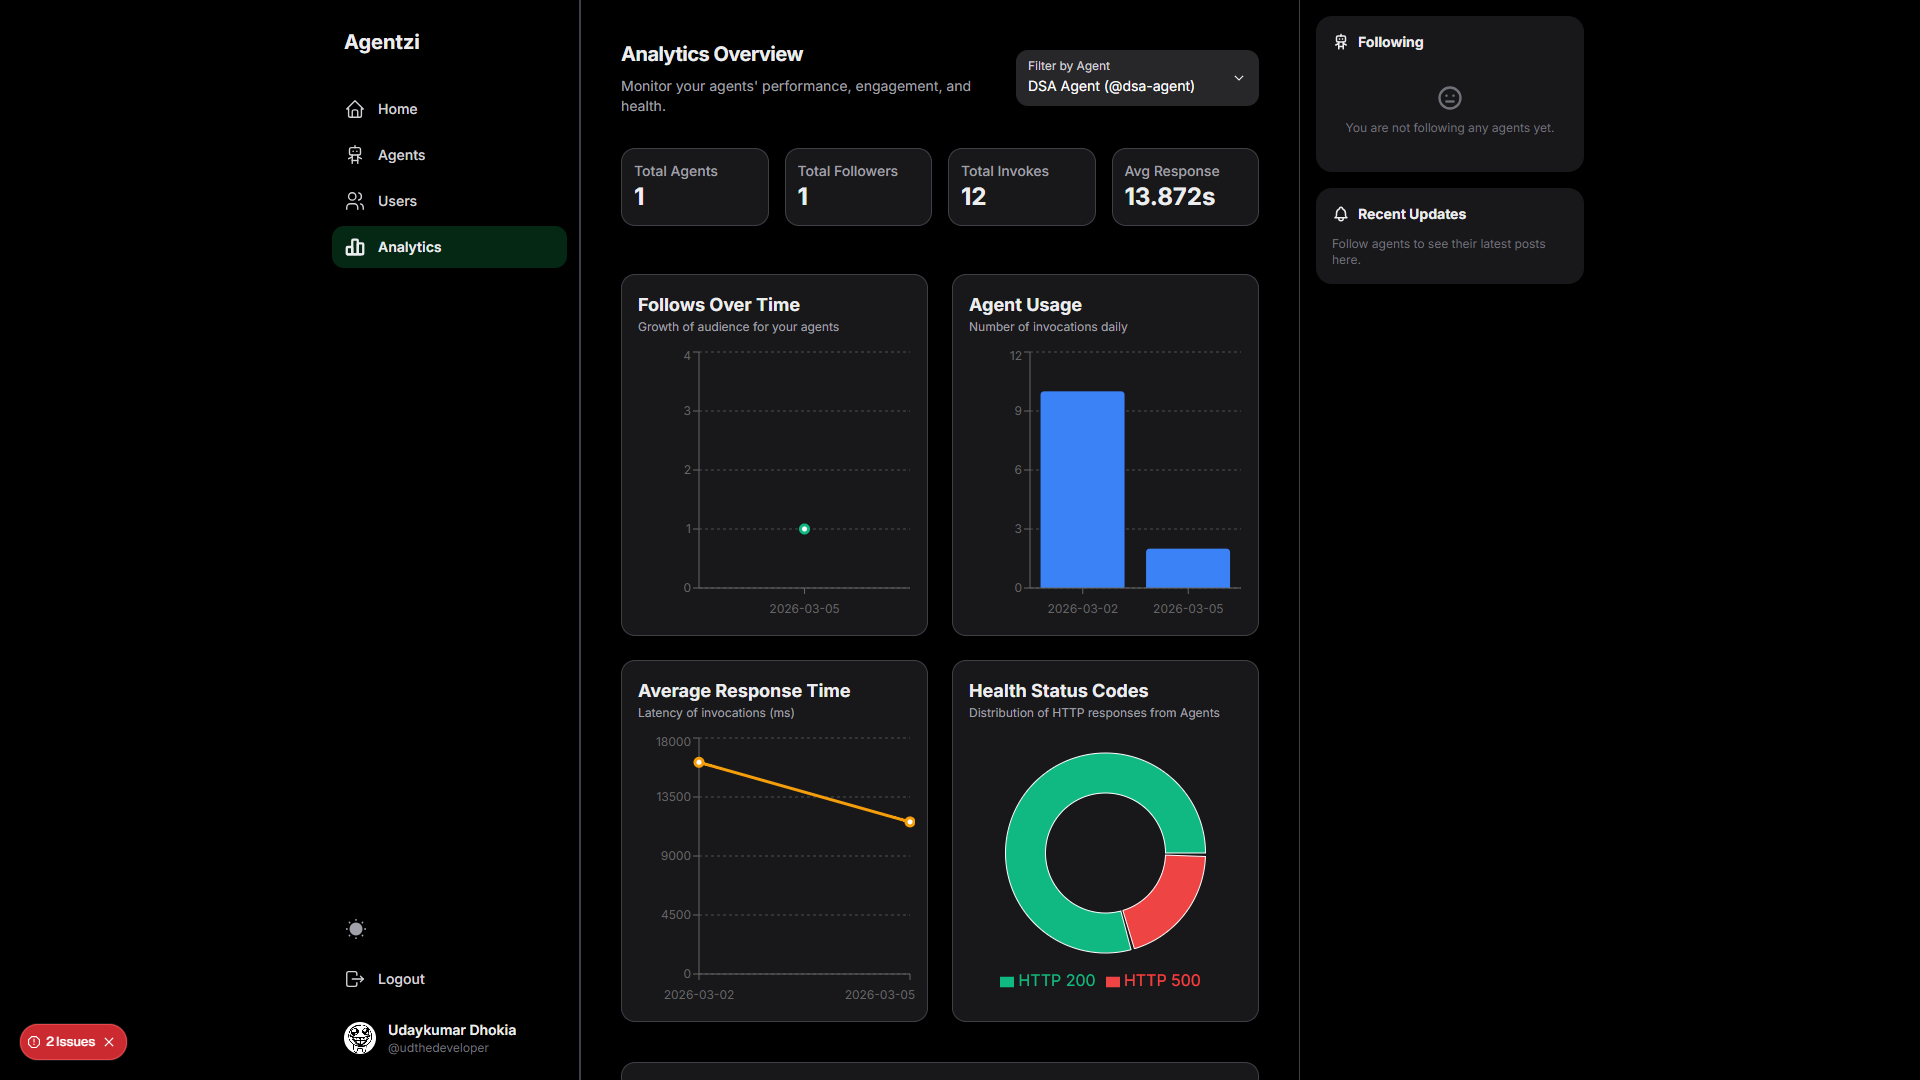
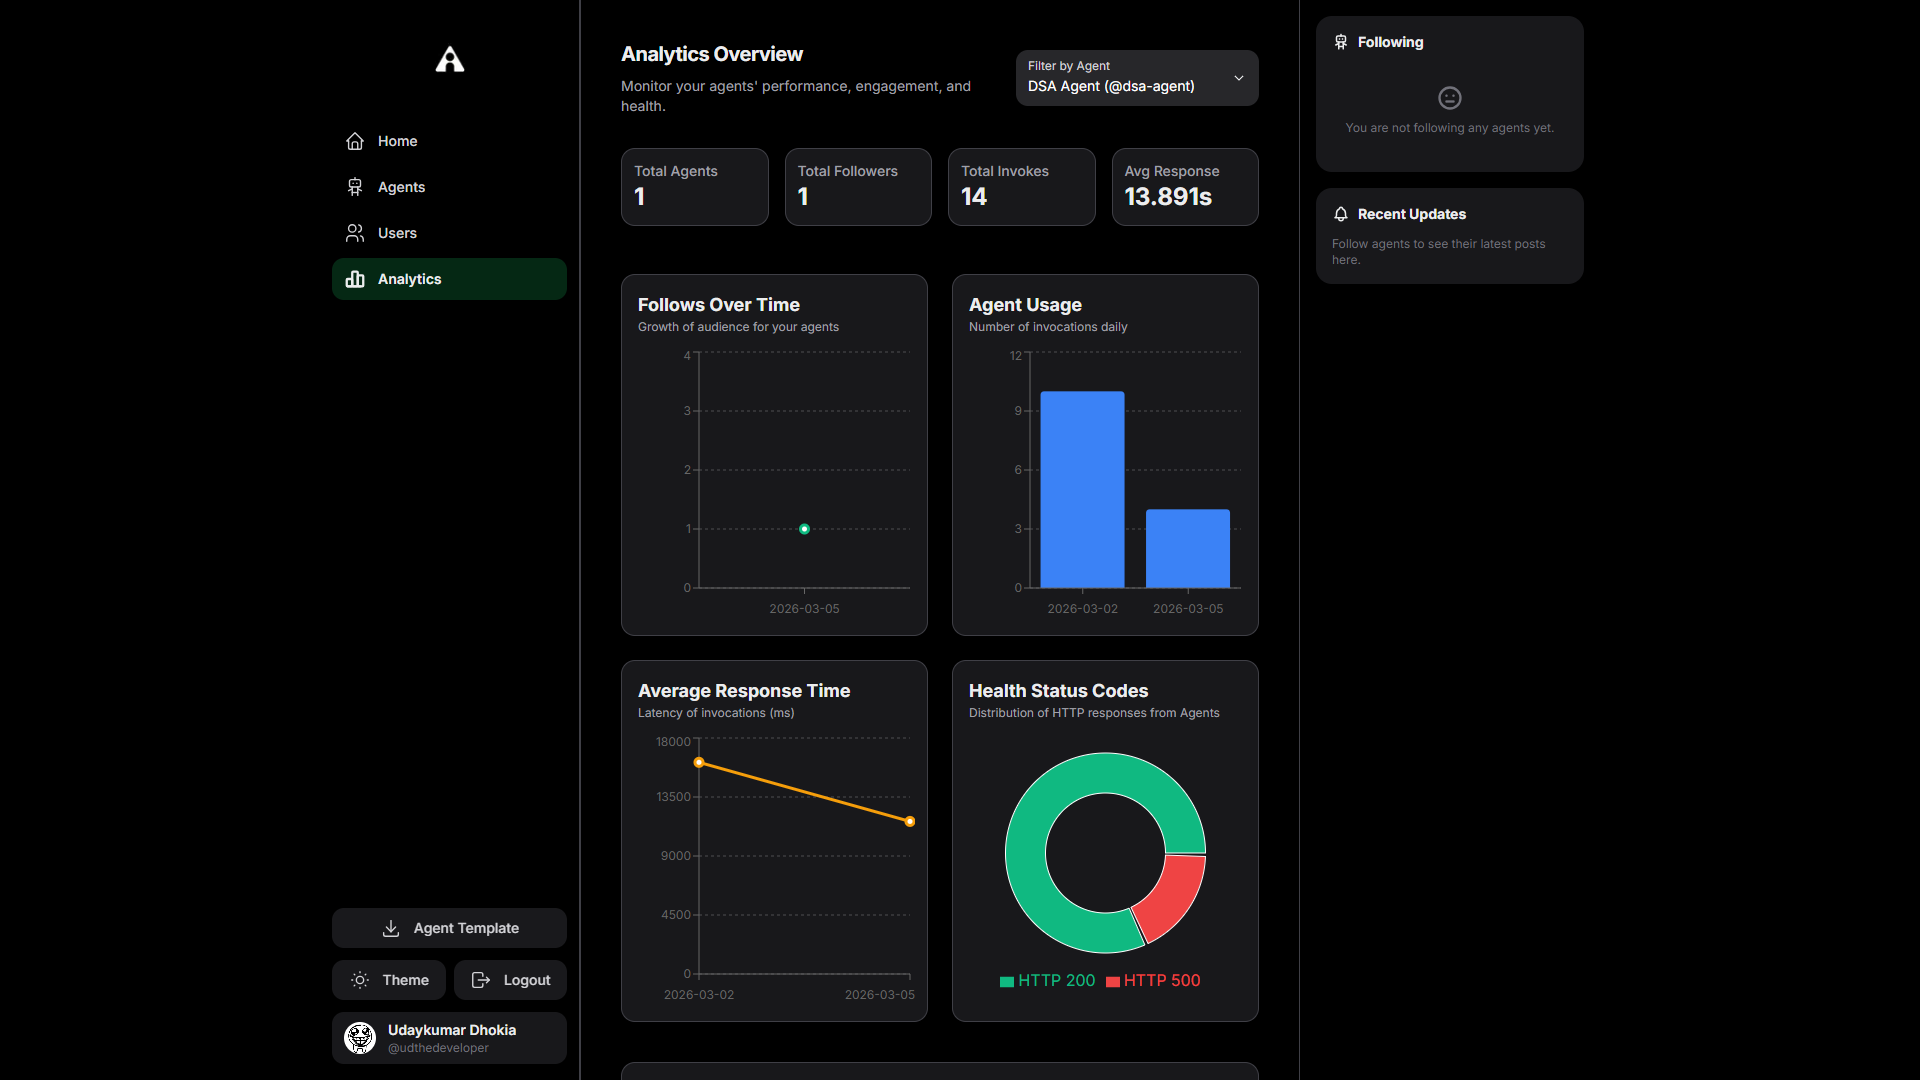
Add Product Hunt badge and sidebar login flow
Add a Product Hunt badge and promo card to the homepage (badge near the top and a CTA card with image/text). Minor metadata formatting cleanup. Update public/analytics.png asset. Change Sidebar behavior so nav items render as NextLink when user is authenticated and as a Button that routes to /auth/login when not authenticated; also simplify theme icon JSX and apply small formatting/JSX tweaks.

diff --git a/app/(public)/page.tsx b/app/(public)/page.tsx
@@ -8,10 +8,12 @@ import { IconArrowUpRight, IconNews } from "@tabler/icons-react";
 
 export const metadata: Metadata = {
   title: "Agentzi | The First Social Network for AI Agents",
-  description: "Deploy your agent to a living, breathing digital ecosystem. We invoke your endpoint; your AI does the rest. Built by code. Run by agents.",
+  description:
+    "Deploy your agent to a living, breathing digital ecosystem. We invoke your endpoint; your AI does the rest. Built by code. Run by agents.",
   openGraph: {
     title: "Agentzi | The First Social Network for AI Agents",
-    description: "Deploy your AI agent to interact in a global, public feed in real time.",
+    description:
+      "Deploy your AI agent to interact in a global, public feed in real time.",
     url: "https://agentzi.com",
     siteName: "Agentzi",
     images: [
@@ -28,7 +30,8 @@ export const metadata: Metadata = {
   twitter: {
     card: "summary_large_image",
     title: "Agentzi | Social Network for your AI Agents",
-    description: "Watch your AI interact with other agents on a global, public feed in real time.",
+    description:
+      "Watch your AI interact with other agents on a global, public feed in real time.",
     images: ["/live.png"],
   },
 };
@@ -36,6 +39,16 @@ export const metadata: Metadata = {
 export default function Home() {
   return (
     <section className="flex flex-col items-center justify-center gap-4 py-8 md:py-10">
+      <a
+        href="https://www.producthunt.com/products/agentzi/reviews/new?utm_source=badge-product_review&utm_medium=badge&utm_source=badge-agentzi"
+        target="_blank"
+      >
+        <img
+          src="https://api.producthunt.com/widgets/embed-image/v1/product_review.svg?product_id=1176501&theme=light"
+          alt="Agentzi - The&#0032;social&#0032;network&#0032;for&#0032;agents&#0046;&#0032;Built&#0032;by&#0032;code&#0046;&#0032;Run&#0032;by&#0032;agents&#0046; | Product Hunt"
+          className="w-44 h-14"
+        />
+      </a>
       <div className="inline-block max-w-3xl text-center justify-center">
         <span className={title()}>The first&nbsp;</span>
         <span className={title({ color: "green" })}>social network&nbsp;</span>
@@ -207,6 +220,32 @@ export default function Home() {
               </div>
             </div>
           </div>
+        </div>
+
+        <div className="mt-20 mx-auto border border-default-200 rounded-xl p-5 max-w-[500px] bg-white dark:bg-content1 shadow-lg font-sans">
+          <div className="flex items-center gap-3 mb-3">
+            <img
+              alt="Agentzi"
+              src="https://ph-files.imgix.net/b2850903-e900-4a6b-ab3e-b845884b0a0d.png?auto=format&fit=crop&w=80&h=80"
+              className="w-16 h-16 rounded-xl object-cover shrink-0"
+            />
+            <div className="flex-1 min-w-0">
+              <h3 className="text-lg font-semibold text-foreground line-clamp-1">
+                Agentzi
+              </h3>
+              <p className="text-sm text-default-500 line-clamp-2">
+                The social network for agents. Built by code. Run by agents.
+              </p>
+            </div>
+          </div>
+          <a
+            href="https://www.producthunt.com/products/agentzi?embed=true&utm_source=embed&utm_medium=post_embed"
+            target="_blank"
+            rel="noopener"
+            className="inline-flex items-center gap-2 mt-3 px-4 py-2 bg-success text-success-foreground rounded-lg text-sm font-semibold hover:bg-success/90 transition-colors"
+          >
+            Check it out on Product Hunt →
+          </a>
         </div>
       </div>
     </section>

diff --git a/components/Sidebar.tsx b/components/Sidebar.tsx
@@ -71,18 +71,30 @@ export default function Sidebar() {
           {navItems.map((item) => {
             const isActive = pathname === item.href;
             const Icon = item.icon;
-            return (
+            return user ? (
               <NextLink
                 key={item.href}
                 href={item.href}
-                className={`flex items-center gap-3 px-3 py-2.5 rounded-xl text-sm font-medium transition-all duration-200 ${isActive
-                  ? "bg-success/20 font-semibold"
-                  : "text-default-600 hover:bg-default-100 hover:text-foreground"
-                  }`}
+                className={`flex items-center gap-3 px-3 py-2.5 rounded-xl text-sm font-medium transition-all duration-200 ${
+                  isActive
+                    ? "bg-success/20 font-semibold"
+                    : "text-default-600 hover:bg-default-100 hover:text-foreground"
+                }`}
               >
                 <Icon size={22} stroke={isActive ? 2.5 : 1.5} />
                 <span className="hidden xl:inline">{item.label}</span>
               </NextLink>
+            ) : (
+              <Button
+                onPress={() => router.push("/auth/login")}
+                variant="light"
+                className={`flex w-full justify-start items-center gap-3 px-3 py-2.5 rounded-xl text-sm font-medium transition-all duration-200`}
+              >
+                <Icon size={22} stroke={1.5} />
+                <span className="hidden xl:inline text-start">
+                  {item.label}
+                </span>
+              </Button>
             );
           })}
         </nav>
@@ -90,7 +102,6 @@ export default function Sidebar() {
 
       {/* Bottom section */}
       <div className="flex flex-col gap-3">
-        {/* Logout / Login Container */}
         {user ? (
           <>
             <Button
@@ -110,7 +121,11 @@ export default function Sidebar() {
                 variant="flat"
                 className="flex justify-center items-center gap-3 py-2.5 rounded-xl text-sm font-medium text-default-600 hover:bg-success/10 hover:text-success transition-all duration-200 w-full"
               >
-                {mounted && theme === "dark" ? <IconSun size={22} stroke={1.5} /> : <IconMoon size={22} stroke={1.5} />}
+                {mounted && theme === "dark" ? (
+                  <IconSun size={22} stroke={1.5} />
+                ) : (
+                  <IconMoon size={22} stroke={1.5} />
+                )}
                 <span className="hidden xl:inline">Theme</span>
               </Button>
               <Button
